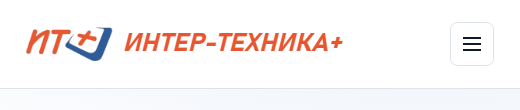
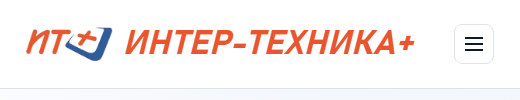
Логотип не уменьшается до 700px; надпись равна ему по высоте

diff --git a/index.html b/index.html
@@ -24,7 +24,7 @@
 
   <link rel="icon" href="assets/icon.png" type="image/png">
   <link rel="apple-touch-icon" href="assets/icon.png">
-  <link rel="stylesheet" href="assets/style.css?v=20261128">
+  <link rel="stylesheet" href="assets/style.css?v=20261129">
 
   <script type="application/ld+json">
   {
@@ -74,7 +74,7 @@
   <header class="site-header">
     <div class="container header-inner">
       <a class="brand" href="#top" aria-label="Интер-Техника-Плюс — на главную">
-        <img class="brand-logo" src="assets/logo.png?v=20261128" alt="Интер-Техника-Плюс" width="112" height="44">
+        <img class="brand-logo" src="assets/logo.png?v=20261129" alt="Интер-Техника-Плюс" width="112" height="44">
         <span class="brand-name">Интер-Техника<span class="brand-plus">+</span></span>
       </a>
 
@@ -347,7 +347,7 @@
     <a class="btn btn--ghost" href="#services">Услуги</a>
   </div>
 
-  <script src="assets/app.js?v=20261128" defer></script>
-  <script src="assets/map.js?v=20261128" defer></script>
+  <script src="assets/app.js?v=20261129" defer></script>
+  <script src="assets/map.js?v=20261129" defer></script>
 </body>
 </html>

diff --git a/requisites.html b/requisites.html
@@ -8,13 +8,13 @@
   <link rel="canonical" href="https://ivu.ru/requisites.html">
   <link rel="icon" href="assets/icon.png" type="image/png">
   <link rel="apple-touch-icon" href="assets/icon.png">
-  <link rel="stylesheet" href="assets/style.css?v=20261128">
+  <link rel="stylesheet" href="assets/style.css?v=20261129">
 </head>
 <body>
   <header class="site-header">
     <div class="container header-inner">
       <a class="brand" href="index.html" aria-label="Интер-Техника-Плюс — на главную">
-        <img class="brand-logo" src="assets/logo.png?v=20261128" alt="Интер-Техника-Плюс" width="112" height="44">
+        <img class="brand-logo" src="assets/logo.png?v=20261129" alt="Интер-Техника-Плюс" width="112" height="44">
         <span class="brand-name">Интер-Техника<span class="brand-plus">+</span></span>
       </a>
       <button class="nav-toggle" type="button" aria-expanded="false" aria-controls="nav">
@@ -134,6 +134,6 @@
     </div>
   </footer>
 
-  <script src="assets/app.js?v=20261128" defer></script>
+  <script src="assets/app.js?v=20261129" defer></script>
 </body>
 </html>

diff --git a/privacy.html b/privacy.html
@@ -8,13 +8,13 @@
   <meta name="robots" content="noindex, follow">
   <link rel="icon" href="assets/icon.png" type="image/png">
   <link rel="apple-touch-icon" href="assets/icon.png">
-  <link rel="stylesheet" href="assets/style.css?v=20261128">
+  <link rel="stylesheet" href="assets/style.css?v=20261129">
 </head>
 <body>
   <header class="site-header">
     <div class="container header-inner">
       <a class="brand" href="index.html" aria-label="Интер-Техника-Плюс — на главную">
-        <img class="brand-logo" src="assets/logo.png?v=20261128" alt="Интер-Техника-Плюс" width="112" height="44">
+        <img class="brand-logo" src="assets/logo.png?v=20261129" alt="Интер-Техника-Плюс" width="112" height="44">
         <span class="brand-name">Интер-Техника<span class="brand-plus">+</span></span>
       </a>
       <button class="nav-toggle" type="button" aria-expanded="false" aria-controls="nav">
@@ -102,6 +102,6 @@
     </div>
   </footer>
 
-  <script src="assets/app.js?v=20261128" defer></script>
+  <script src="assets/app.js?v=20261129" defer></script>
 </body>
 </html>

diff --git a/404.html b/404.html
@@ -7,13 +7,13 @@
   <meta name="robots" content="noindex">
   <link rel="icon" href="assets/icon.png" type="image/png">
   <link rel="apple-touch-icon" href="assets/icon.png">
-  <link rel="stylesheet" href="assets/style.css?v=20261128">
+  <link rel="stylesheet" href="assets/style.css?v=20261129">
 </head>
 <body>
   <header class="site-header">
     <div class="container header-inner">
       <a class="brand" href="index.html" aria-label="Интер-Техника-Плюс — на главную">
-        <img class="brand-logo" src="assets/logo.png?v=20261128" alt="Интер-Техника-Плюс" width="112" height="44">
+        <img class="brand-logo" src="assets/logo.png?v=20261129" alt="Интер-Техника-Плюс" width="112" height="44">
         <span class="brand-name">Интер-Техника<span class="brand-plus">+</span></span>
       </a>
       <nav class="nav" aria-label="Основная навигация">
@@ -47,6 +47,6 @@
     </div>
   </footer>
 
-  <script src="assets/app.js?v=20261128" defer></script>
+  <script src="assets/app.js?v=20261129" defer></script>
 </body>
 </html>

diff --git a/assets/style.css b/assets/style.css
@@ -1104,7 +1104,6 @@ p:last-child { margin-bottom: 0; }
 
 /* Бренд: знак и надпись масштабируются вместе и остаются одной высоты */
 @media (max-width: 1200px) {
-  :root { --brand-size: 38px; }
   .nav-toggle { display: inline-flex; }
 
   .nav {
@@ -1126,13 +1125,22 @@ p:last-child { margin-bottom: 0; }
 }
 
 @media (max-width: 700px) {
-  :root { --brand-size: 30px; }
+  :root { --brand-size: 40px; }
   .brand { gap: 10px; }
   .header-inner { gap: 12px; }
   .nav-toggle { width: 40px; height: 40px; }
 }
 
+@media (max-width: 540px) {
+  :root { --brand-size: 34px; }
+}
+
 @media (max-width: 420px) {
-  :root { --brand-size: 26px; }
+  :root { --brand-size: 28px; }
   .header-inner { padding-inline: 16px; }
 }
+
+@media (max-width: 370px) {
+  :root { --brand-size: 26px; }
+}
+
